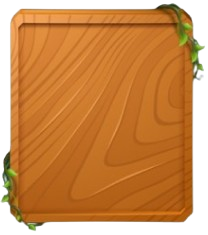
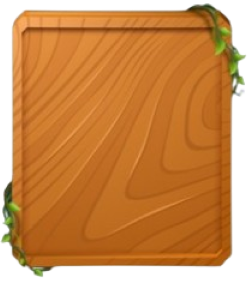
+3 images and better store

diff --git a/pages/store.py b/pages/store.py
@@ -138,17 +138,26 @@ def get_combined(type, name):
 
     combined_width = max(image_width, text_width, coin_width + tag_width) + 30
     combined_height = image_height + text_height + max(coin_width, tag_width) + 40
-    combined_surface = pygame.Surface((combined_width + 50, combined_height + 50), pygame.SRCALPHA)
+    combined_surface = pygame.Surface((combined_width + 90, combined_height + 90), pygame.SRCALPHA)
 
 
+<<<<<<< Updated upstream:pages/store.py
     wood_board = pygame.image.load(f"../images/menus/wood_board.png").convert_alpha()
     wood_board = pygame.transform.scale(wood_board,(combined_width + 40, combined_height + 60))
+=======
+    wood_board = pygame.image.load(f"images/menus/wood_board.png").convert_alpha()
+    #wood_board = pygame.transform.scale(wood_board,(combined_width + 40, combined_height + 60))
+>>>>>>> Stashed changes:store.py
 
-    combined_surface.blit(wood_board, (0, 0))
-    combined_surface.blit(text, (30, 40))
-    combined_surface.blit(image, (30, text_height + 10 + 40))
-    combined_surface.blit(tag, (30, text_height + image_height + 10 + 10 + 40))
-    combined_surface.blit(coin, (tag_width + 10 + 30, text_height + image_height + 10 + 10 + 40))
+    # to center the boards
+    #wood_board_x = (combined_surface.get_width() - wood_board.get_width()) // 2
+    #wood_board_y = (combined_surface.get_height() - wood_board.get_height()) // 2
+
+    combined_surface.blit(wood_board, (25, 0))
+    combined_surface.blit(text, (60, 40))
+    combined_surface.blit(image, (75, text_height + 10 + 40))
+    combined_surface.blit(tag, (60, text_height + image_height + 10 + 10 + 26))
+    combined_surface.blit(coin, (tag_width + 10 +55, text_height + image_height + 10 + 38 ))
     combined_rect = combined_surface.get_rect(topleft=combined_position)
 
     print(combined_height)
@@ -181,36 +190,40 @@ def store():
 
 
 
+<<<<<<< Updated upstream:pages/store.py
     background_image_shop = pygame.image.load(f"../images/backgrounds/back_of_credits.jpg").convert_alpha()
+=======
+    background_image_shop = pygame.image.load(f"images/menus/menus_back.png").convert_alpha()
+>>>>>>> Stashed changes:store.py
     background_image_shop = pygame.transform.scale(background_image_shop, screen_resolution)
 
 
 
 
-    store_dict["others"]["chest"]["text"] = corbelfont().render("CHEST", True, white)
-    store_dict["elixir"]["health"]["text"] = corbelfont().render("HEALTH ELIXIR", True, white)
-    store_dict["elixir"]["speed"]["text"] = corbelfont().render("SPEED ELIXIR", True, white)
-    store_dict["powerup"]["invincibility"]["text"] = corbelfont().render("INVINCIBILITY", True, white)
-    store_dict["powerup"]["de_spawner"]["text"] = corbelfont().render("DE-SPAWNER", True, white)
-    store_dict["powerup"]["double_jump"]["text"] = corbelfont().render("DOUBLE JUMP", True, white)
-    store_dict["powerup"]["double_coins"]["text"] = corbelfont().render("DOUBLE COINS", True, white)
+    store_dict["others"]["chest"]["text"] = verdana_store.render("CHEST", True, white)
+    store_dict["elixir"]["health"]["text"] = verdana_store.render("HEALTH ELIXIR", True, white)
+    store_dict["elixir"]["speed"]["text"] = verdana_store.render("SPEED ELIXIR", True, white)
+    store_dict["powerup"]["invincibility"]["text"] = verdana_store.render("INVINCIBILITY", True, white)
+    store_dict["powerup"]["de_spawner"]["text"] = verdana_store.render("DE-SPAWNER", True, white)
+    store_dict["powerup"]["double_jump"]["text"] = verdana_store.render("DOUBLE JUMP", True, white)
+    store_dict["powerup"]["double_coins"]["text"] = verdana_store.render("DOUBLE COINS", True, white)
 
-    store_dict["others"]["chest"]["tag"] = corbelfont(50).render(f"{chest_price}", True, white)
-    store_dict["elixir"]["health"]["tag"] = corbelfont(50).render(f"{health_elixir_price}", True, white)
-    store_dict["elixir"]["speed"]["tag"] = corbelfont(50).render(f"{speed_elixir_price}", True, white)
-    store_dict["powerup"]["invincibility"]["tag"] = corbelfont(50).render(f"{invincibility_powerup_price}", True, white)
-    store_dict["powerup"]["de_spawner"]["tag"] = corbelfont(50).render(f"{de_spawner_powerup_price}", True, white)
-    store_dict["powerup"]["double_jump"]["tag"] = corbelfont(50).render(f"{double_jump_powerup_price}", True, white)
-    store_dict["powerup"]["double_coins"]["tag"] = corbelfont(50).render(f"{double_coins_powerup_price}", True, white)
+    store_dict["others"]["chest"]["tag"] = verdana_store.render(f"{chest_price}", True, white)
+    store_dict["elixir"]["health"]["tag"] = verdana_store.render(f"{health_elixir_price}", True, white)
+    store_dict["elixir"]["speed"]["tag"] = verdana_store.render(f"{speed_elixir_price}", True, white)
+    store_dict["powerup"]["invincibility"]["tag"] = verdana_store.render(f"{invincibility_powerup_price}", True, white)
+    store_dict["powerup"]["de_spawner"]["tag"] = verdana_store.render(f"{de_spawner_powerup_price}", True, white)
+    store_dict["powerup"]["double_jump"]["tag"] = verdana_store.render(f"{double_jump_powerup_price}", True, white)
+    store_dict["powerup"]["double_coins"]["tag"] = verdana_store.render(f"{double_coins_powerup_price}", True, white)
 
     get_image("others", "coin", "coin.png", coin_shop_image_size)
-    get_image("others", "chest", "chest.png", shop_image_size)
-    get_image("elixir", "health", "chest.png", shop_image_size)
-    get_image("elixir", "speed", "chest.png", shop_image_size)
-    get_image("powerup", "invincibility", "chest.png", shop_image_size)
-    get_image("powerup", "de_spawner", "chest.png", shop_image_size)
-    get_image("powerup", "double_jump", "double_jump.png", shop_image_size)
-    get_image("powerup", "double_coins", "double_coins.png", shop_image_size)
+    get_image("others", "chest", "chest.png", (150, 105))
+    get_image("elixir", "health", "heart+1.png", (180, 122))
+    get_image("elixir", "speed", "blue_potion.png", (100, 144))
+    get_image("powerup", "invincibility", "invincibility.png", (150, 151))
+    get_image("powerup", "de_spawner", "yellow_potion.png", (100, 148))
+    get_image("powerup", "double_jump", "double_jump.png", (120, 120))
+    get_image("powerup", "double_coins", "double_coins.png", (120, 120))
 
     get_combined("others", "chest")
     get_combined("elixir", "health")

diff --git a/config.py b/config.py
@@ -41,9 +41,9 @@ fps = 60
 
 
 # SIZES
-shop_image_size = (150, 150)
-coin_shop_image_size = (50, 50)
-
+chest_image_size = (150, 150)
+coin_shop_image_size = (20, 20)
+double_coins_image_size = (190, 144)
 avatar_size = (50, 100)
 avatar_width = avatar_size[0]
 avatar_height = avatar_size[1]
@@ -117,6 +117,7 @@ custom_font_intro = pygame.font.SysFont("poppins", font_size)
 poppins = pygame.font.SysFont("letere", 40)
 verdana = pygame.font.SysFont("Verdana", 55)
 verdana_settings = pygame.font.SysFont("Verdana", 28)
+verdana_store = pygame.font.SysFont("Verdana", 20)
 
 # PRICES
 chest_price = 0
